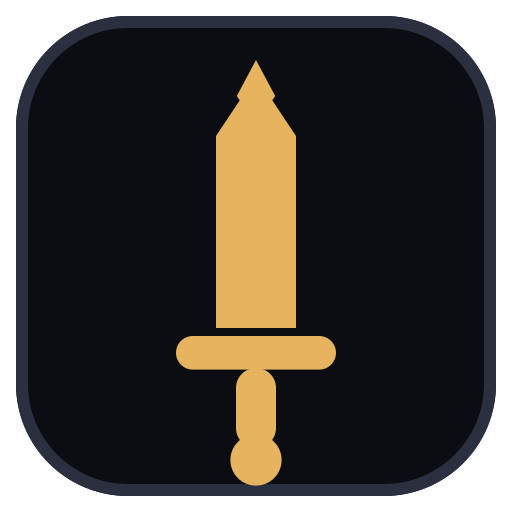
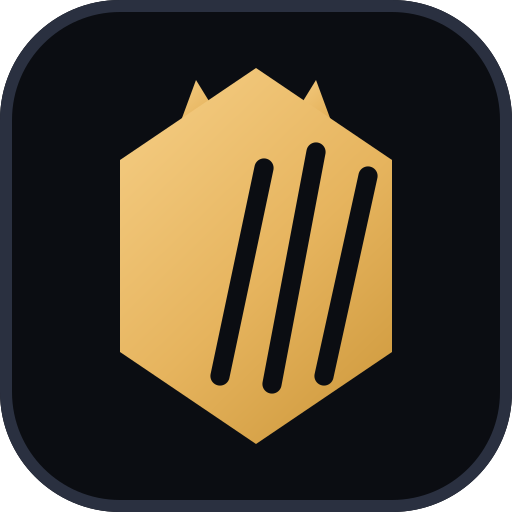
feat: icono nuevo y dos formas de barra
El icono era una forma abstracta que no decía nada a 16 px ni a 512. Ahora
es una placa dorada con dos cuernos y tres zarpazos: vectorial, con
degradado suave, y se rasteriza a 128, 256 y 512 desde el mismo SVG.

Las barras del panel solo tenían una forma. Se añaden dos:

- **Tramos**: recta, relleno plano y cortes cada 10 % del color del panel,
  para leer la vida como una regla y no como una mancha.
- **Cápsula**: muy redondeada y sin marcas, con el relleno mandando.

La redondeada sigue siendo la de por defecto, así que una configuración
existente no cambia de aspecto. Se eligen en Ajustes y valen para la vida
del monstruo y para las barras de partes y estados.

diff --git a/crates/mh-overlay-ui/src/view.rs b/crates/mh-overlay-ui/src/view.rs
@@ -4,7 +4,7 @@
 //! dominante con la marca del umbral de captura y, debajo, barras finas de partes y estados.
 //! El texto dice el número; las barras solo lo hacen comparable de un vistazo.
 
-use mh_overlay_config::{Color, Config, Direction, Monsters, StyleSection};
+use mh_overlay_config::{BarStyle, Color, Config, Direction, Monsters, StyleSection};
 use mh_overlay_games::{
     Buff, Crown, HornNote, Hunt, Monster, Part, Player, SharpnessLevel, Snapshot, Weapon,
     WeaponDetail, WeaponGauge, part_labels,
@@ -1000,7 +1000,11 @@ fn draw_health_bar(
         geometry.inner_width(canvas).max(1.0) as u32,
         geometry.bar.max(4.0) as u32,
     );
-    let radius = 3.0 * scale;
+    let radius = match style.bar_style {
+        BarStyle::Rounded => 3.0 * scale,
+        BarStyle::Blocks => 0.0,
+        BarStyle::Pill => bar.height as f32 / 2.0,
+    };
 
     // El borde claro separa la barra del panel y la pista queda hundida un píxel.
     canvas.fill_rounded(bar, radius, lighten(style.panel, 0.26));
@@ -1025,18 +1029,34 @@ fn draw_health_bar(
             filled - 2,
             bar.height.saturating_sub(2),
         );
-        canvas.fill_rounded_gradient(fill, (radius - 1.0).max(0.0), lighten(base, 0.34), base);
+        let inner_radius = (radius - 1.0).max(0.0);
+        // En tramos el relleno va plano: el degradado suaviza los cortes y aquí se busca lo
+        // contrario, que cada tramo se lea como un bloque.
+        if style.bar_style == BarStyle::Blocks {
+            canvas.fill_rounded(fill, inner_radius, base);
+        } else {
+            canvas.fill_rounded_gradient(fill, inner_radius, lighten(base, 0.34), base);
+        }
     }
 
     // Marcas cada 10 %: la barra se lee como una escala y no como una mancha de color.
-    let tick = lighten(style.panel, 0.5).with_alpha(60);
+    let tick = if style.bar_style == BarStyle::Blocks {
+        style.panel
+    } else {
+        lighten(style.panel, 0.5).with_alpha(60)
+    };
+    let tick_width = if style.bar_style == BarStyle::Blocks {
+        (scale * 2.0).max(2.0)
+    } else {
+        scale.max(1.0)
+    };
     for step in 1..10 {
         let x = bar.x as f32 + bar.width as f32 * (step as f32 / 10.0);
         canvas.fill_rect(
             Rect::new(
                 x.round() as i32,
                 bar.y + 1,
-                scale.round().max(1.0) as u32,
+                tick_width.round() as u32,
                 bar.height.saturating_sub(2),
             ),
             tick,
@@ -2269,7 +2289,10 @@ fn draw_row(
         (inner - LABEL_WIDTH * geometry.scale - value_width).max(1.0) as u32,
         bar_height as u32,
     );
-    let radius = bar.height as f32 / 2.0;
+    let radius = match style.bar_style {
+        BarStyle::Rounded | BarStyle::Pill => bar.height as f32 / 2.0,
+        BarStyle::Blocks => 0.0,
+    };
 
     canvas.fill_rounded(bar, radius, lighten(style.panel, 0.18));
 

diff --git a/crates/mh-overlay-config/src/lib.rs b/crates/mh-overlay-config/src/lib.rs
@@ -246,6 +246,35 @@ pub struct StyleSection {
     pub capture: Color,
     pub part: Color,
     pub severable: Color,
+    /// Forma de las barras del panel.
+    pub bar_style: BarStyle,
+}
+
+/// Forma de las barras del panel.
+#[derive(Debug, Clone, Copy, PartialEq, Eq, Default, Deserialize, Serialize)]
+#[serde(rename_all = "lowercase")]
+pub enum BarStyle {
+    /// Redondeada, con degradado y marcas cada 10 %: la de siempre.
+    #[default]
+    Rounded,
+    /// Recta y plana, partida en tramos por las marcas: se lee como una regla.
+    Blocks,
+    /// Muy redondeada, sin marcas: el relleno manda.
+    Pill,
+}
+
+impl BarStyle {
+    /// Las formas en el orden en que se ofrecen.
+    pub const ALL: [Self; 3] = [Self::Rounded, Self::Blocks, Self::Pill];
+
+    /// Nombre corto para la interfaz.
+    pub fn label(self) -> &'static str {
+        match self {
+            Self::Rounded => "Redondeada",
+            Self::Blocks => "Tramos",
+            Self::Pill => "Cápsula",
+        }
+    }
 }
 
 /// Juegos de colores listos para el panel.
@@ -316,6 +345,7 @@ impl Default for StyleSection {
             capture: Color::rgb(0xe6, 0xb4, 0x5e),
             part: Color::rgb(0x4f, 0x8d, 0xd6),
             severable: Color::rgb(0xd6, 0x9a, 0x4f),
+            bar_style: BarStyle::default(),
         }
     }
 }

diff --git a/crates/mh-overlay-app/src/lib.rs b/crates/mh-overlay-app/src/lib.rs
@@ -16,7 +16,7 @@ use std::time::{Duration, Instant};
 
 use eframe::egui;
 use mh_overlay_config::{
-    Backdrop, BarPlacement, Color, Config, Direction, Layout, LayoutPreset, Monsters,
+    Backdrop, BarPlacement, BarStyle, Color, Config, Direction, Layout, LayoutPreset, Monsters,
     OverlaySection, Position, StylePreset, StyleSection, Theme,
 };
 use mh_overlay_games::{
@@ -2962,6 +2962,18 @@ impl Hub {
                         .clicked()
                     {
                         self.config.style = preset.style();
+                    }
+                }
+            });
+
+            ui.horizontal_wrapped(|ui| {
+                ui.label(egui::RichText::new("Barras").color(self.palette.muted));
+                for bars in BarStyle::ALL {
+                    if ui
+                        .selectable_label(self.config.style.bar_style == bars, bars.label())
+                        .clicked()
+                    {
+                        self.config.style.bar_style = bars;
                     }
                 }
             });

diff --git a/crates/mh-overlay-config/src/theme.rs b/crates/mh-overlay-config/src/theme.rs
@@ -119,6 +119,22 @@ mod tests {
     }
 
     #[test]
+    fn every_bar_style_has_a_name_and_round_trips_through_the_toml() {
+        for (style, name) in [
+            (crate::BarStyle::Rounded, "rounded"),
+            (crate::BarStyle::Blocks, "blocks"),
+            (crate::BarStyle::Pill, "pill"),
+        ] {
+            let config: crate::Config =
+                crate::Config::from_toml(&format!("[style]\nbar_style = \"{name}\"\n"), "prueba")
+                    .unwrap();
+
+            assert_eq!(config.style.bar_style, style);
+            assert!(!style.label().is_empty());
+        }
+    }
+
+    #[test]
     fn the_theme_names_accept_spanish_and_english() {
         assert_eq!("auto".parse::<Theme>().unwrap(), Theme::Auto);
         assert_eq!("Sistema".parse::<Theme>().unwrap(), Theme::Auto);

diff --git a/README.md b/README.md
@@ -27,8 +27,9 @@ inyectar DLLs ni escribir un solo byte en el proceso. Es la alternativa a
   flinch/romper/cortar y aviso **Roto**; estados alterados con su duración; filo en golpes del
   color actual, medidores de clase, munición y buffs con temporizador. Las 14 armas tienen
   icono propio.
-- **Hub de escritorio** — diagnóstico de la conexión, selección de mapa, vista previa en vivo y
-  todos los ajustes con selector de color, sin editar el TOML a mano.
+- **Hub de escritorio** — diagnóstico de la conexión, selección de mapa, vista previa en vivo,
+  cinco fondos, tres presets de color, selector por color y tres formas de barra, sin editar el
+  TOML a mano.
 - **Novedades y disposición** — el hub enseña qué cambió en la última release, deja arrastrar
   las placas con imán sobre una pantalla esquemática y guardar presets de disposición.
 - **Un solo archivo** — el AppImage se integra en el menú la primera vez y se actualiza solo,

diff --git a/CHANGELOG.md b/CHANGELOG.md
@@ -3,6 +3,16 @@
 Todos los cambios visibles para quien usa `mh-overlay`. El workflow de release usa la sección
 de la versión etiquetada como cuerpo de la release de GitHub y falla si no existe.
 
+## [0.7.0] - 2026-11-22
+
+### Añadido
+
+- Icono nuevo: una placa dorada con dos cuernos y tres zarpazos, vectorial, en 128, 256 y 512 px
+  más el SVG. Se ve igual de bien a 16 px que a 512.
+- Dos formas de barra más para el panel, además de la redondeada: **Tramos** (recta, plana y
+  partida cada 10 %) y **Cápsula** (muy redondeada, sin marcas). Se eligen en **Ajustes** y se
+  aplican a la vida del monstruo y a las barras de partes y estados.
+
 ## [0.6.0] - 2026-11-22
 
 ### Añadido
